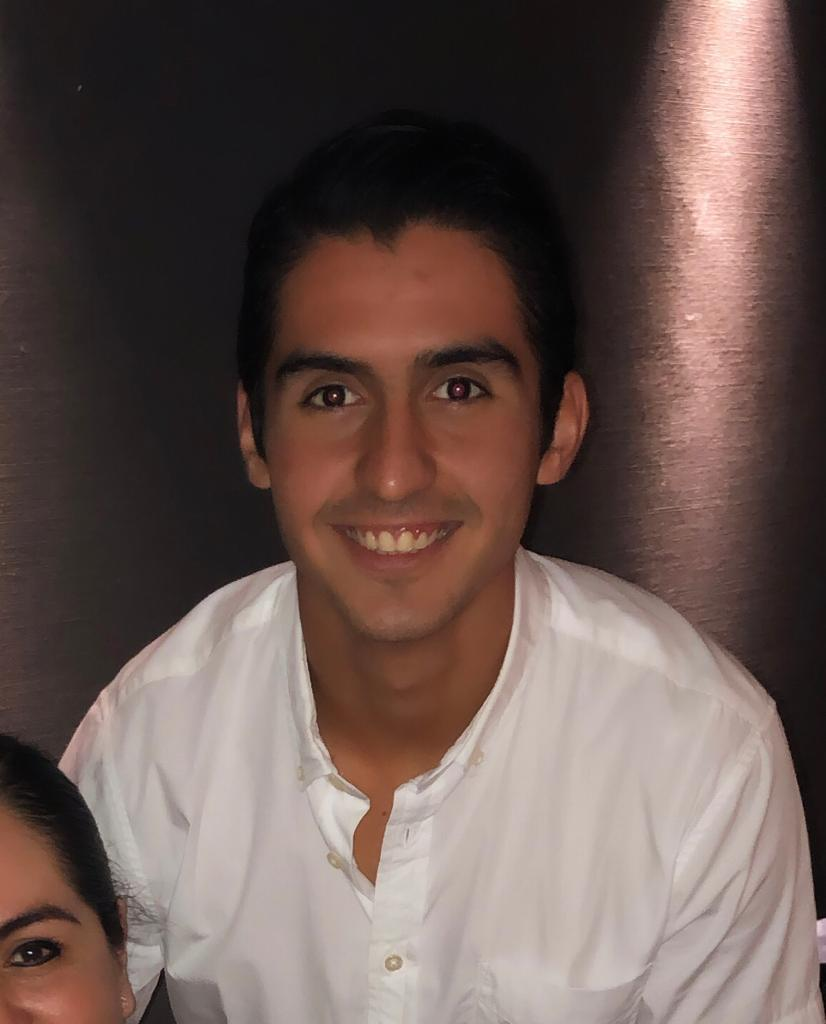
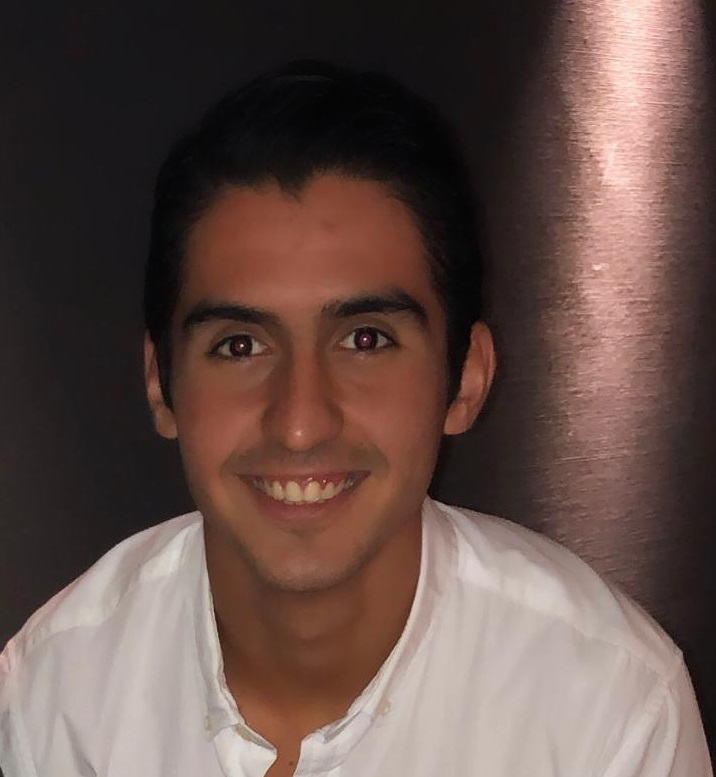
Responsive attrs

diff --git a/portfolios/templates/portfolios/resume.html b/portfolios/templates/portfolios/resume.html
@@ -15,9 +15,9 @@ RM: Resume
 {% include "portfolios/includes/header.html" %}
 <div class='container'>
   <div class='row my-cv-header'>
-    <div class='col-3'>
+    <div class='col-m-3'>
       <div class='center'>
-      <span class="helper"></span><img class="my-image" src="{% static "portfolios/images/raulmayacv.jpeg" %}" height=200 width=200>
+      <span class="helper"></span><img class="my-image" src="{% static "portfolios/images/raulmaya.png" %}" height=200 width=200>
       </div>
     </div>
     <div class='col-9 personal-data'>
@@ -53,13 +53,29 @@ RM: Resume
   </div>
 
   <div class='row'>
-    <div class='col-12 work-exp'>
+    <div class='col-6 work-exp'>
       <h4>Work Experience</h4>
       <ul>
         <li>2019 - Samsung SEM-P  | Process Engineer |</li>
         <li>2019 - 2021 - WMW Altamira | Industrial Engineer |</li>
         <li>2022 - Ford Motor Company | Data Analyst Engineer - Python Engineer |</li>
       </ul>
+    </div>
+    <div class='col-6'>
+      <table class="table table-bordered">
+        <thead>
+          <tr>
+            <th scope="col" colspan="3">Databases and Big Data</th>
+          </tr>
+        </thead>
+        <tbody>
+          <tr>
+            <td><img src="{% static "portfolios/images/postgres.png" %}" alt="postgres" width=50 height=40></td>
+            <td><img src="{% static "portfolios/images/mongo.png" %}" alt="mongo db" width=65 height=40></td>
+            <td><img src="{% static "portfolios/images/hive.png" %}" alt="hive" width=50 height=40></td>
+          </tr>
+        </tbody>
+      </table>
     </div>
   </div>
 
@@ -73,9 +89,9 @@ RM: Resume
         </thead>
         <tbody>
           <tr>
-            <td><img src="https://upload.wikimedia.org/wikipedia/commons/9/93/Amazon_Web_Services_Logo.svg" alt="Italian Trulli" width=50 height=40></td>
-            <td><img src="https://seeklogo.com/images/G/google-cloud-logo-ADE788217F-seeklogo.com.png" alt="Italian Trulli" width=50 height=40></td>
-            <td> <img src="https://cdn-icons-png.flaticon.com/512/873/873120.png" alt="Italian Trulli" width=50 height=40></td>
+            <td><img src="{% static "portfolios/images/aws.png" %}" alt="aws" width=50 height=40></td>
+            <td><img src="{% static "portfolios/images/gcp.png" %}" alt="gcp" width=50 height=40></td>
+            <td> <img src="{% static "portfolios/images/heroku.png" %}" alt="heroku" width=50 height=40></td>
           </tr>
         </tbody>
       </table>
@@ -89,9 +105,9 @@ RM: Resume
         </thead>
         <tbody>
           <tr>
-            <td><img src="https://cdn.britannica.com/73/2573-004-29818847/Flag-Mexico.jpg" alt="Spanish" width=50 height=40></td>
-            <td><img src="https://upload.wikimedia.org/wikipedia/en/a/a4/Flag_of_the_United_States.svg" alt="United States" width=50 height=40></td>
-            <td><img src="https://upload.wikimedia.org/wikipedia/commons/b/ba/Flag_of_Germany.svg" alt="German" width=50 height=40></td>
+            <td><img src="{% static "portfolios/images/mexico.png" %}" alt="Spanish" width=50 height=40></td>
+            <td><img src="{% static "portfolios/images/usa.png" %}" alt="United States" width=50 height=40></td>
+            <td><img src="{% static "portfolios/images/germany.png" %}" alt="German" width=50 height=40></td>
           </tr>
         </tbody>
       </table>
@@ -106,9 +122,9 @@ RM: Resume
         </thead>
         <tbody>
           <tr>
-            <td><img src="https://www.docker.com/wp-content/uploads/2022/03/Moby-logo.png" alt="Docker" width=50 height=40></td>
-            <td><img src="https://www.freelogovectors.net/wp-content/uploads/2022/01/terra-form-logo-freelogovectors.net_.png" alt="Terraform" width=50 height=40></td>
-            <td> <img src="https://miro.medium.com/max/1024/1*R801s9CtfC4-CiH5beZUfQ.png" alt="Kurbenetes" width=50 height=40></td>
+            <td><img src="{% static "portfolios/images/docker.png" %}" alt="Docker" width=50 height=40></td>
+            <td><img src="{% static "portfolios/images/terraform.png" %}" alt="Terraform" width=50 height=40></td>
+            <td> <img src="{% static "portfolios/images/kubernetes.png" %}" alt="Kubernetes" width=50 height=40></td>
           </tr>
         </tbody>
       </table>
@@ -125,12 +141,12 @@ RM: Resume
         </thead>
         <tbody>
           <tr>
-            <td><img src="https://upload.wikimedia.org/wikipedia/commons/c/c3/Python-logo-notext.svg" alt="Python" width=50 height=45></td>
-            <td><img src="https://upload.wikimedia.org/wikipedia/commons/6/6a/JavaScript-logo.png" alt="JS" width=50 height=40></td>
+            <td><img src="{% static "portfolios/images/python.png" %}" alt="Python" width=65 height=45></td>
+            <td><img src="{% static "portfolios/images/javascript.png" %}" alt="JS" width=65 height=40></td>
           </tr>
           <tr>
-            <td><img src="https://seeklogo.com/images/J/julia-logo-DC9698BAF9-seeklogo.com.png" alt="Julia" width=50 height=40></td>
-            <td><img src="https://upload.wikimedia.org/wikipedia/commons/thumb/4/40/VB.NET_Logo.svg/800px-VB.NET_Logo.svg.png" alt="VBA" width=50 height=40></td>
+            <td><img src="{% static "portfolios/images/julia.png" %}" alt="Julia" width=60 height=40></td>
+            <td><img src="{% static "portfolios/images/visual.png" %}" alt="VBA" width=50 height=40></td>
           </tr>
         </tbody>
       </table>
@@ -145,12 +161,12 @@ RM: Resume
         </thead>
         <tbody>
           <tr>
-            <td><img src="https://seeklogo.com/images/D/django-logo-F46C1DD95E-seeklogo.com.png" alt="Django" width=50 height=45></td>
-            <td><img src="https://cdn.freebiesupply.com/logos/large/2x/flask-logo-png-transparent.png" alt="Flask" width=50 height=45></td>
+            <td><img src="{% static "portfolios/images/django.png" %}" alt="Django" width=60 height=45></td>
+            <td><img src="{% static "portfolios/images/flask.png" %}" alt="Flask" width=60 height=45></td>
           </tr>
           <tr>
-            <td><img src="https://www.pinpng.com/pngs/m/265-2658026_plotly-dash-logo-png-download-plotly-dash-logo.png" alt="Plotly Dash" width=60 height=40></td>
-            <td><img src="https://blog.artegrafico.net/wp-content/uploads/2019/02/jQuery-logo.png" alt="JQuery" width=50 height=40></td>
+            <td><img src="{% static "portfolios/images/plotlydash.png" %}" alt="Plotly Dash" width=60 height=40></td>
+            <td><img src="{% static "portfolios/images/jquery.png" %}" alt="JQuery" width=50 height=40></td>
           </tr>
         </tbody>
       </table>
@@ -165,12 +181,12 @@ RM: Resume
         </thead>
         <tbody>
           <tr>
-            <td><img src="https://seeklogo.com/images/T/tableau-software-logo-F1CE2CA54A-seeklogo.com.png" alt="Tableau" width=50 height=40></td>
-            <td><img src="https://upload.wikimedia.org/wikipedia/commons/e/ec/Alteryx_logo.svg" alt="Alteryx" width=50 height=40></td>
+            <td><img src="{% static "portfolios/images/tableau.png" %}" alt="Tableau" width=50 height=40></td>
+            <td><img src="{% static "portfolios/images/alteryx.png" %}" alt="Alteryx" width=50 height=40></td>
           </tr>
           <tr>
-            <td><img src="https://iconape.com/wp-content/files/qp/90030/png/qlik-sense.png" alt="Qlik Sense" width=50 height=40></td>
-            <td><img src="https://upload.wikimedia.org/wikipedia/commons/c/c9/Power_bi_logo_black.svg" alt="Power Bi" width=50 height=40></td>
+            <td><img src="{% static "portfolios/images/qlik.png" %}" alt="Qlik Sense" width=60 height=45></td>
+            <td><img src="{% static "portfolios/images/powerbi.png" %}" alt="Power Bi" width=60 height=45></td>
           </tr>
         </tbody>
       </table>

diff --git a/portfolios/static/portfolios/projects.css b/portfolios/static/portfolios/projects.css
@@ -1,12 +1,13 @@
 @import url('https://fonts.googleapis.com/css2?family=Anton&family=PT+Sans+Narrow&display=swap');
 
-.container-xxl{
+.project-cont{
   background-color: transparent;
   font-family: 'PT Sans Narrow', sans-serif;
   display: grid;
   justify-content: space-evenly;
-  grid-template-columns: auto auto auto auto auto;
+  grid-template-columns: auto auto auto auto;
 }
+
 
 figure {
   margin-top: 12px;
@@ -162,4 +163,95 @@ figure figcaption button {
 
 .tag-CSS {
   background-color: #003865;
+}
+
+@media(max-width: 1300px) {
+
+  .project-cont{
+    grid-template-columns: auto auto auto;
+  }}
+
+@media(max-width: 1000px) {
+
+  .project-cont{
+    grid-template-columns: auto auto auto;
+  }
+
+  figure {
+    width: 250px;
+    height: 450px;
+  }
+
+  figure h1 {
+    font-size: 35px;
+    font-weight: 700;
+    line-height: 1;
+    -webkit-text-stroke: .35px black;
+  }
+
+  figure figcaption {
+    color: white;
+    line-height: 1;
+    transition: 0.25s;
+  }
+
+  figure figcaption h3 {
+    margin: 0 0 20px;
+    padding: 0;
+  }
+  figure figcaption p {
+    font-size: 13px;
+    line-height: 1.75;
+  }
+}
+
+@media(max-width: 750px) {
+
+  .project-cont{
+    grid-template-columns: auto auto;
+  }
+}
+
+
+@media(max-width: 500px) {
+
+  .project-cont{
+    grid-template-columns: auto auto;
+  }
+  figure {
+    width: 200px;
+    height: 400px;
+  }
+
+  figure h1 {
+    font-size: 25px;
+    font-weight: 700;
+    line-height: 1;
+    -webkit-text-stroke: .15px black;
+  }
+
+  figure figcaption {
+    color: white;
+    line-height: 1;
+    transition: 0.25s;
+  }
+
+  figure figcaption h3 {
+    margin: 0 0 20px;
+    padding: 0;
+  }
+  figure figcaption p {
+    font-size: 11px;
+    line-height: 1.5;
+  }
+
+  .tag {
+    border-radius: 50px;
+    font-size: 10px;
+    margin: 10px 0 10px 0;
+    color: #fff;
+    padding: 2px 10px;
+    text-transform: uppercase;
+    cursor: pointer;
+  }
 }

diff --git a/portfolios/templates/portfolios/contact.html b/portfolios/templates/portfolios/contact.html
@@ -18,7 +18,7 @@ RM: Contact
   {% div "container-fluid contact-cont" %}
 
   {% row "align-items-md-stretch" %}
-      {% col "col-4" %}
+      {% col "col-md-4" %}
         <header>CONTACT FORM</header>
         <h5>If you have a project idea in mind, please get in touch.</h5>
 
@@ -28,14 +28,14 @@ RM: Contact
           
               <h5>If you’d like to reach out for non-production related enquires, feel free to send an email or contact me via my social media channels.</h5>
       {% endcol %}
-      {% col "col-4" %}
+      {% col "col-md-4" %}
       <form action="" method="post">
           {% csrf_token %}
           {{ form }}
           <input id="submit" type="submit" value="Submit">
       </form>
       {% endcol %}
-      {% col "col-4" %}
+      {% col "col-md-4" %}
       <div class="contact-wrapper">
           <div class="direct-contact-container">
 

diff --git a/portfolios/templates/portfolios/includes/header.html b/portfolios/templates/portfolios/includes/header.html
@@ -1,7 +1,10 @@
-<nav class="navbar navbar-expand-lg">
+<nav class="navbar navbar-expand-lg ">
   <div class="container-fluid">
       <a class="navbar-brand" href="/"><h2>RAÚL MAYA</h2>
       <p>Python Developer | Data Scientist</p></a>
+      <button class="navbar-toggler" type="button" data-toggle="collapse" data-target="#navbarSupportedContent" aria-controls="navbarSupportedContent" aria-expanded="false" aria-label="Toggle navigation">
+        <span class="navbar-toggler-icon"></span>
+      </button>
       <div class="d-flex">
             <a class="nav-link" href="{% url "projects" %}"><p>Projects</p></a>
             <a class="nav-link" href="{% url "resume" %}"><p>Resume</p></a>

diff --git a/templates/base.html b/templates/base.html
@@ -11,6 +11,7 @@
     <link rel="stylesheet" href="{% static "styles.css" %}">
     <link rel="icon" href="{% static "raulmayalogo.png" %}">
     <link rel="stylesheet" href="https://cdnjs.cloudflare.com/ajax/libs/font-awesome/6.0.0/css/all.min.css">
+    <link rel="stylesheet" href="https://stackpath.bootstrapcdn.com/bootstrap/4.3.1/css/bootstrap.min.css" integrity="sha384-ggOyR0iXCbMQv3Xipma34MD+dH/1fQ784/j6cY/iJTQUOhcWr7x9JvoRxT2MZw1T" crossorigin="anonymous">
     {% bootstrap_css %}
     {% bootstrap_javascript jquery='full' %}
     {% block css_files %}{% endblock %}

diff --git a/portfolios/templates/portfolios/projects.html b/portfolios/templates/portfolios/projects.html
@@ -1,5 +1,7 @@
 {% extends 'base.html' %}
 {% load static %}
+{% load bootstrap4 %}
+
 
 {% block css_files %}
 <link rel="stylesheet" href="https://cdnjs.cloudflare.com/ajax/libs/font-awesome/6.0.0/css/all.min.css">
@@ -14,7 +16,7 @@ RM: Projects
 {% block content %}
 {% include "portfolios/includes/header.html" %}
 
-<div class="container-xxl">
+<div class="container-fluid project-cont">
   
   {% for project in projects %}
   <figure class="image-block">
